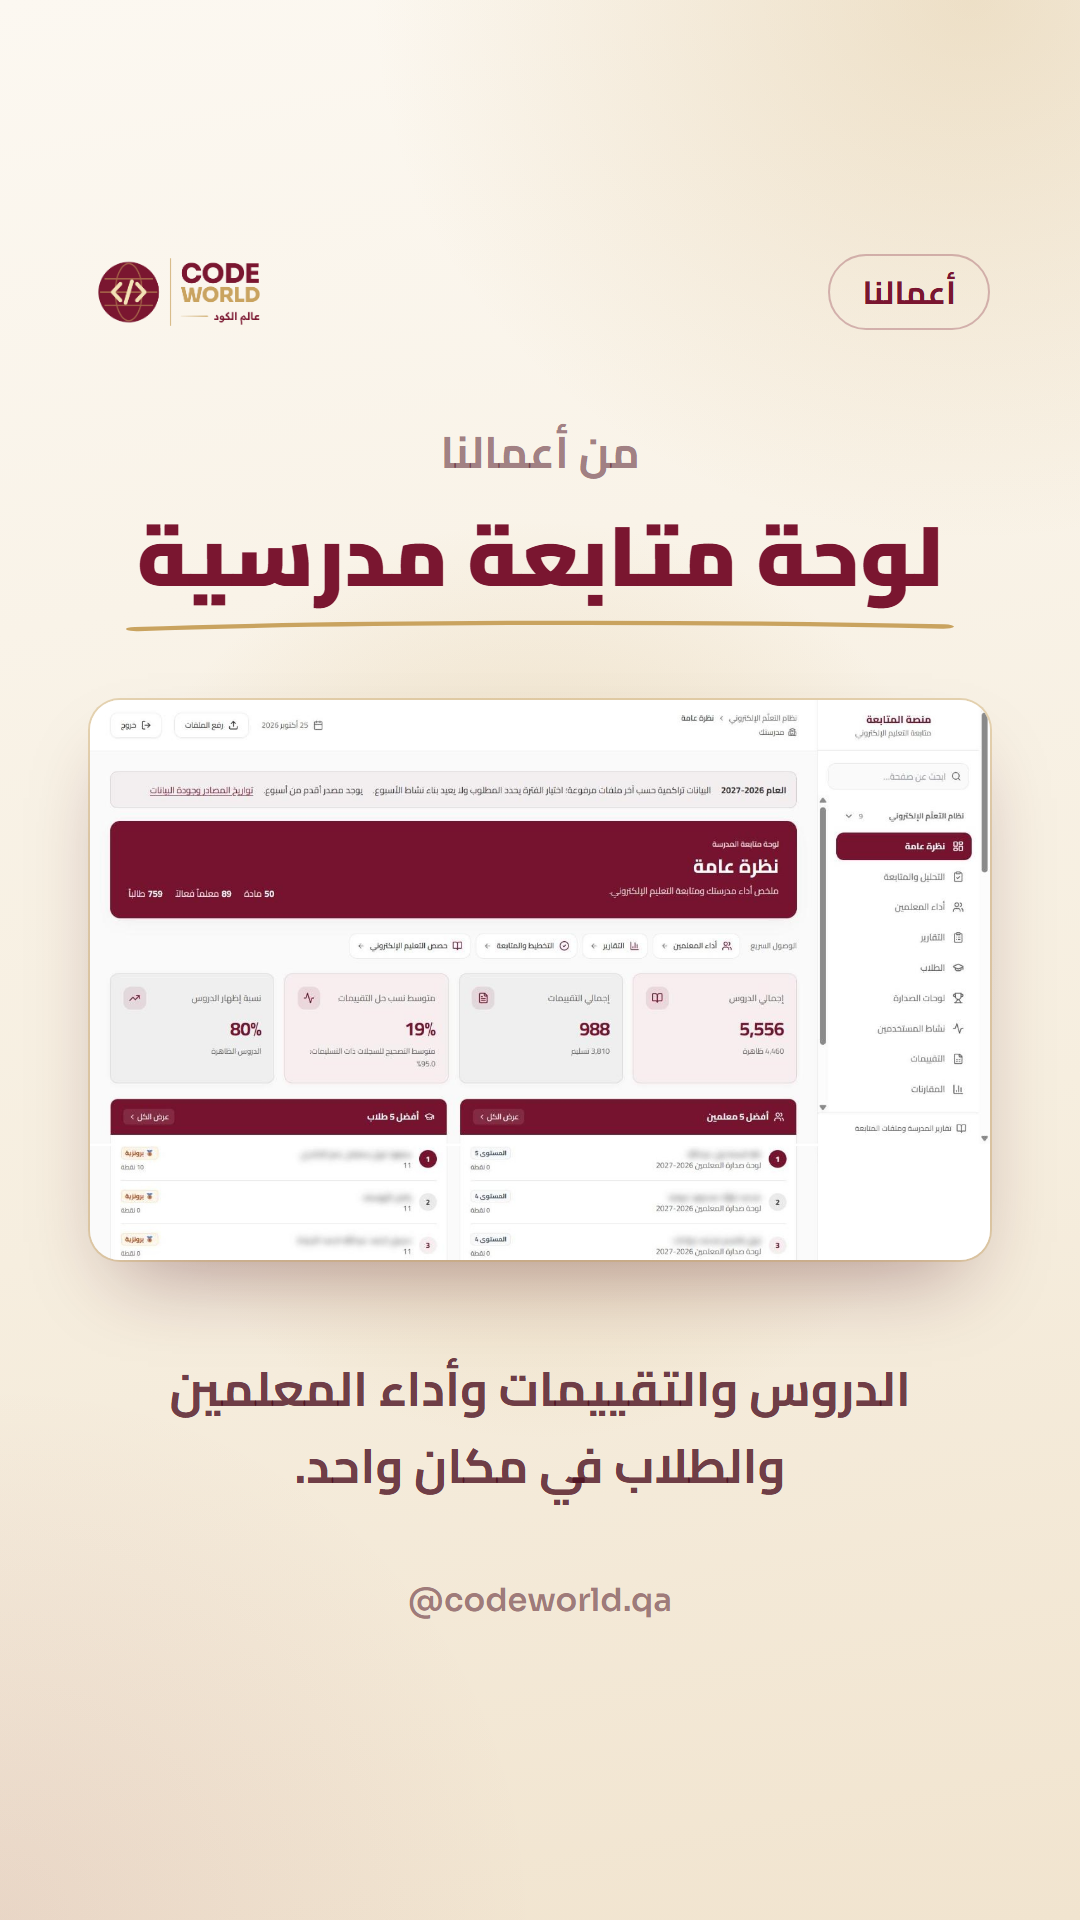
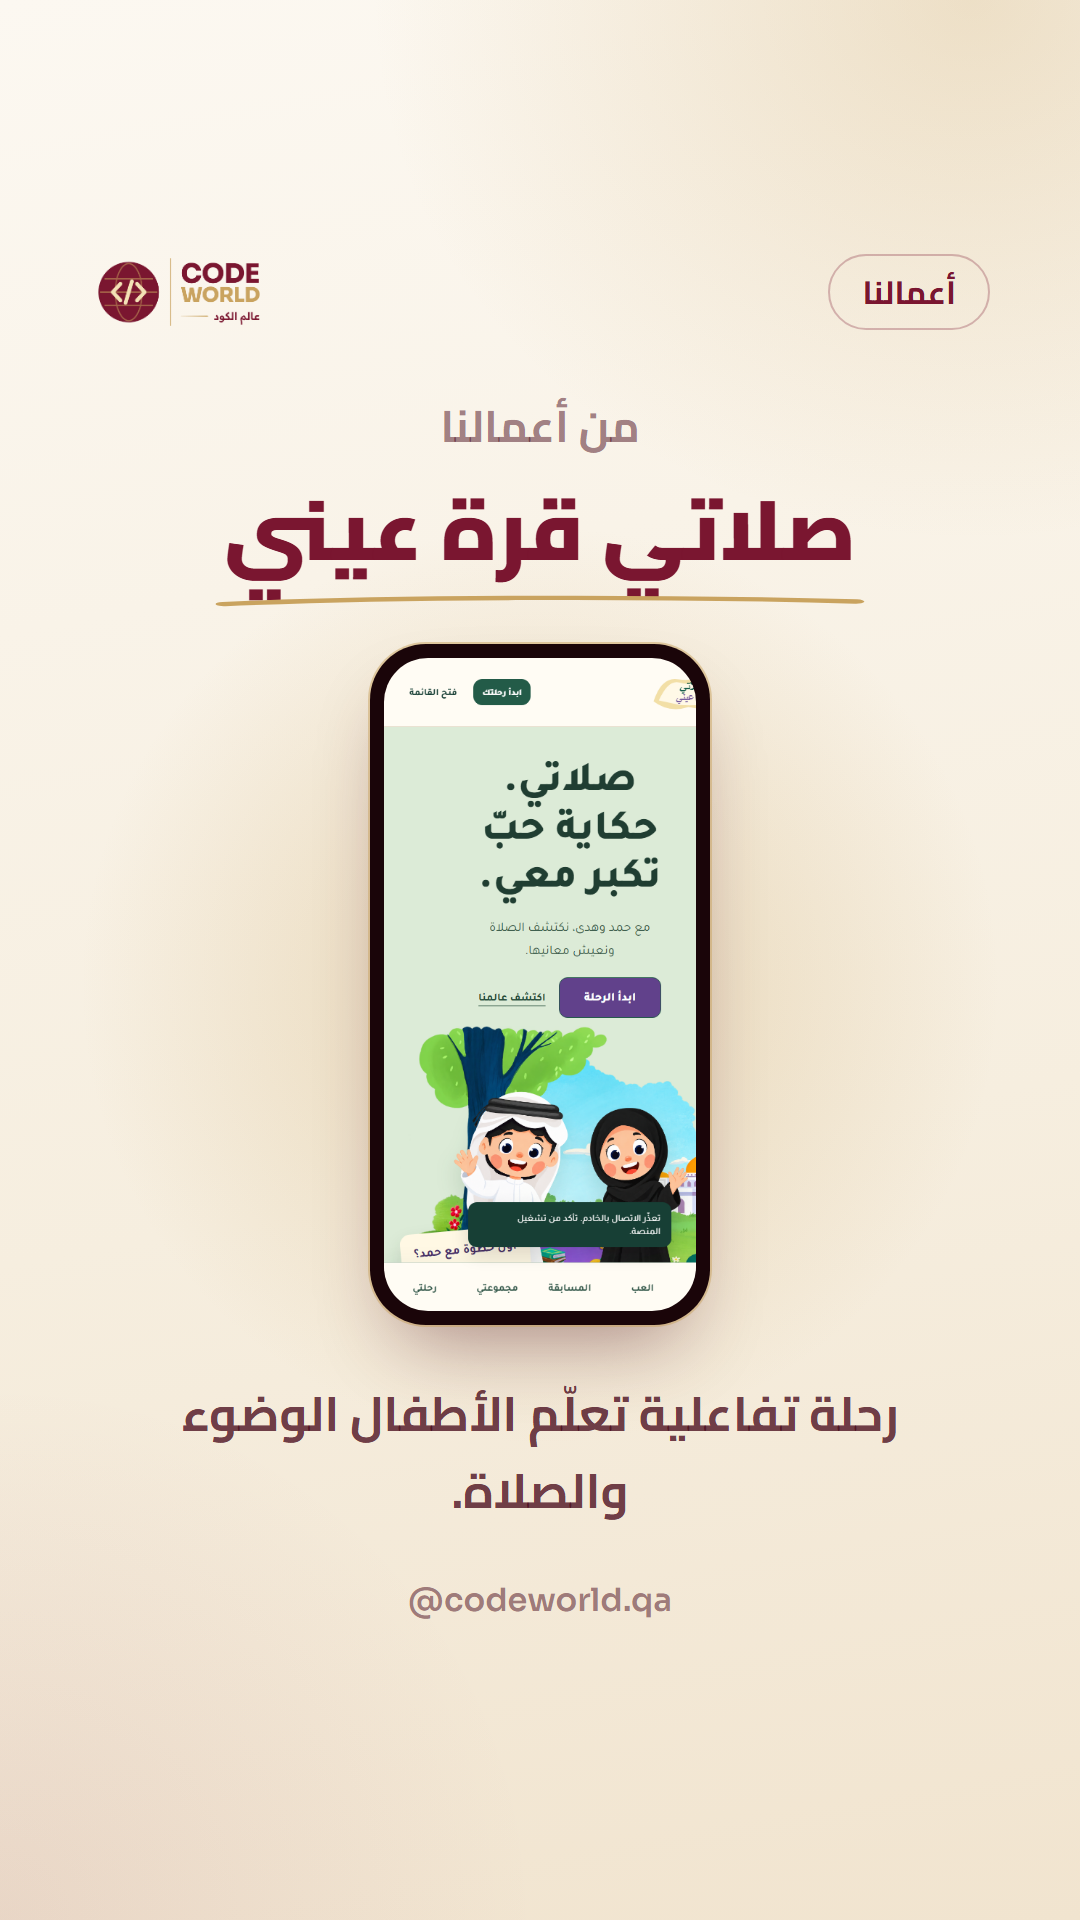
Remove the school dashboard from posts and stories

Changed region(s): [[0.0611, 0.2188, 0.9167, 0.8125]]

diff --git a/brand/instagram/posts-cw.html b/brand/instagram/posts-cw.html
@@ -230,23 +230,6 @@ const POSTS = {
             <div><i>✦</i>الأصول الثابتة والتقارير</div>
           </div>
         </div>`, 24),
-  25: () => laptop({k:"EdTech System", cat:"منصة متابعة للمدارس", title:"لوحة <span class='gold'>متابعة المدرسة</span>", img:"edu-overview.jpg", pg:25}),
-  251: () => `${TOP("Analytics")}
-        <div style="margin-top:40px"><span class="chip">تحليل لحظي</span><h3 style="margin-top:20px">أداء كل مادة <span class="gold">بنظرة واحدة</span></h3>
-        <p class="lead" style="margin-top:14px">مؤشرات الدروس والتقييمات لكل مادة وصف.</p></div>
-        <div style="margin-top:80px;display:flex;justify-content:center"><img src="edu-charts.jpg" style="width:940px;border-radius:22px;box-shadow:0 40px 60px rgba(74,14,30,.25);border:2px solid rgba(122,22,48,.12)"></div>
-        ${BOT(25)}`,
-  252: () => D("For Schools", `
-        <div style="margin:auto 0">
-          <h2>إدارة المدرسة<br><span class="gold">بالأرقام</span></h2>
-          <div class="list">
-            <div><i>✦</i>متابعة أداء المعلمين والدروس</div>
-            <div><i>✦</i>تقارير الطلاب ولوحات الصدارة</div>
-            <div><i>✦</i>تحليل التقييمات ونسب الإنجاز</div>
-            <div><i>✦</i>مقارنات بين المواد والصفوف</div>
-            <div><i>✦</i>رفع الملفات وتحليلها تلقائيًا</div>
-          </div>
-        </div>`, 25),
   26: () => D("Data to Decisions", `
         <div style="margin:auto 0">
           <h2>من ملفات متفرقة<br><span class="gold">إلى لوحة واحدة</span></h2>
@@ -260,7 +243,7 @@ const POSTS = {
         </div>`, 26),
 };
 
-const dark = [2,5,8,11,14,17,20,23,242,26,252].includes(n);
+const dark = [2,5,8,11,14,17,20,23,242,26].includes(n);
 document.body.className = dark ? "dark" : "light";
 document.getElementById("f").innerHTML = POSTS[n]();
 </script>

diff --git a/brand/instagram/code-world-stories/stories.html b/brand/instagram/code-world-stories/stories.html
@@ -120,7 +120,7 @@ const I = {
 const ic = (k) => `<svg viewBox="0 0 24 24">${I[k]}</svg>`;
 /* alternate maroon / cream inside every highlight, like the post grid */
 const DARK = ["new-1", "new-3", "services-0", "services-2", "services-4", "services-6", "services-8",
-  "work-0", "work-2", "work-4", "work-6", "work-8", "work-10", "work-12", "work-14", "how-1", "contact-1"];
+  "work-0", "work-2", "work-4", "work-6", "work-8", "work-10", "work-12", "how-1", "contact-1"];
 const HC_DARK = ["services", "how"];
 let LOGO = "../code-world-logo-dark.png", GLOBE = "../cw-globe-ondark.svg";
 const WA = `<span class="cta">واتساب <span style="font-family:Sora;direction:ltr">+974 6648 8228</span></span>`;
@@ -149,7 +149,6 @@ const WK = [
   ["dopamin", "Dopamin", "هوية دافئة وموقع لعلامة حلويات صحية.", "../dopamin.png"],
   ["south", "مطابخ الجنوب", "نظام نقاط بيع وفواتير ومتابعة مبيعات للمطاعم.", "../elwakra-pos.jpg"],
   ["erp", "نظام ERP", "المبيعات والمخزون والمحاسبة والرواتب في نظام واحد.", "../erp-stock.jpg"],
-  ["edu", "لوحة متابعة مدرسية", "الدروس والتقييمات وأداء المعلمين والطلاب في مكان واحد.", "../edu-overview.jpg"],
   ["slaty", "صلاتي قرة عيني", "رحلة تفاعلية تعلّم الأطفال الوضوء والصلاة.", "../slaty.png", true],
   ["saifx", "saifx", "مساحة منظمة لتعلّم الفيزياء لطلاب الثانوية.", "../saifx.png"],
   ["darb", "دَرْب", "منصة ألعاب وأنشطة تعليمية تفاعلية لكل المواد.", "../games-new.png"],

diff --git a/brand/instagram/captions-cw.md b/brand/instagram/captions-cw.md
@@ -28,5 +28,4 @@ Footer for every post:
 22. Marasi Boats — موقع فاخر لرحلات اليخوت والتجارب البحرية في الدوحة. #تصميم_مواقع #قطر
 23. لديك فكرة؟ كل فكرة تستحق عالمًا، ولنبنِ لها عالمها. استشارة أولى مجانية بلا أي التزام — راسلنا على الواتساب. #استشارة_مجانية
 24. (كاروسيل 3 شرائح: post-24, post-241, post-242) نظام ERP يدير شركتك من مكان واحد. المبيعات والمشتريات والفواتير، والمخزون والمستودعات، والمحاسبة والخزينة، والموارد البشرية والرواتب، وأكثر من 30 تقريرًا جاهزًا للطباعة. تحتاج نظامًا يناسب طريقة عمل شركتك؟ اكتب «عالم» في التعليقات. #ERP #أنظمة_محاسبية #قطر
-25. (كاروسيل 3 شرائح: post-25, post-251, post-252) لوحة متابعة للمدرسة تجمع الدروس والتقييمات وأداء المعلمين والطلاب في مكان واحد، وتتحدّث مع كل ملف يُرفع. تدير مدرسة أو مركزًا تعليميًا؟ اكتب «عالم» في التعليقات. #منصات_تعليمية #أنظمة #قطر
 26. من ملفات متفرقة إلى لوحة واحدة: نحوّل بيانات مؤسستك إلى تقارير واضحة تساعدك على اتخاذ القرار. #أنظمة #تقارير

diff --git a/brand/instagram/code-world-stories/README.md b/brand/instagram/code-world-stories/README.md
@@ -8,7 +8,7 @@
 |---|---|---|
 | من نحن | `highlights/new.png` | new-1، new-2، new-3 |
 | خدماتنا | `highlights/services.png` | services-0، ثم services-1 إلى services-8 |
-| أعمالنا | `highlights/work.png` | work-0، ثم work-1 إلى work-14 |
+| أعمالنا | `highlights/work.png` | work-0، ثم work-1 إلى work-13 |
 | طريقتنا | `highlights/how.png` | how-1 |
 | تواصل | `highlights/contact.png` | contact-1، contact-2 |
 
